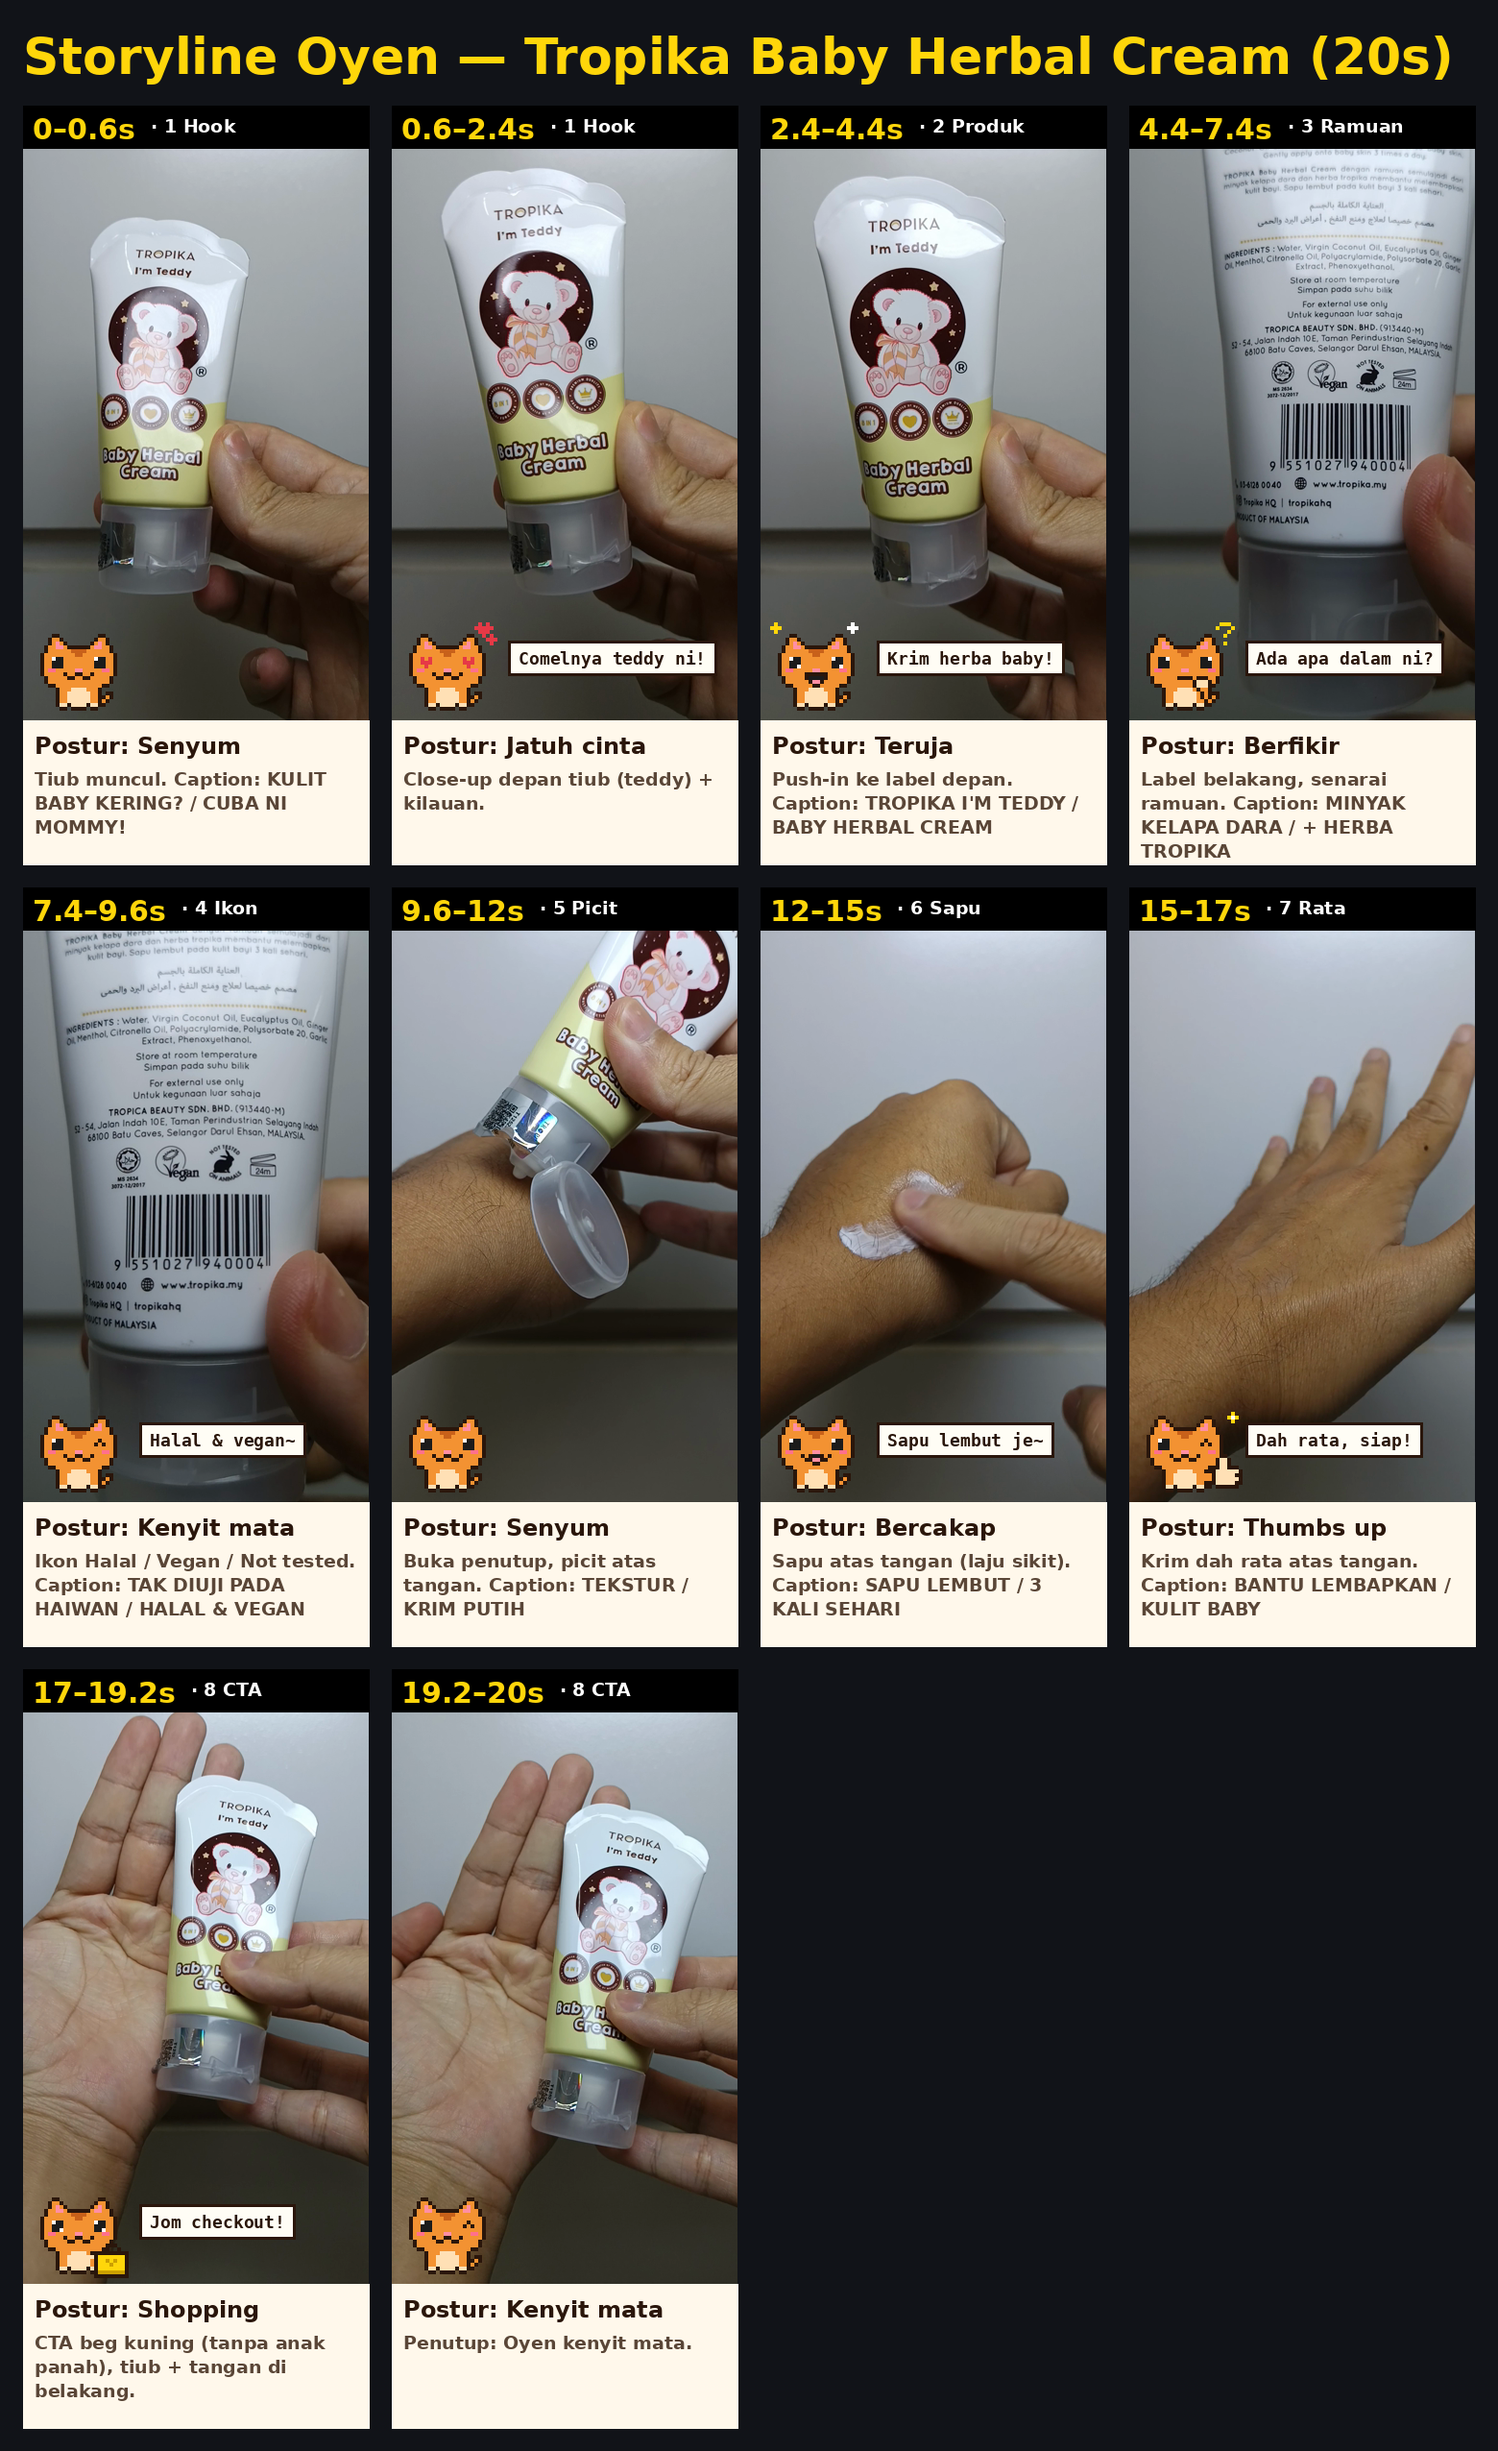
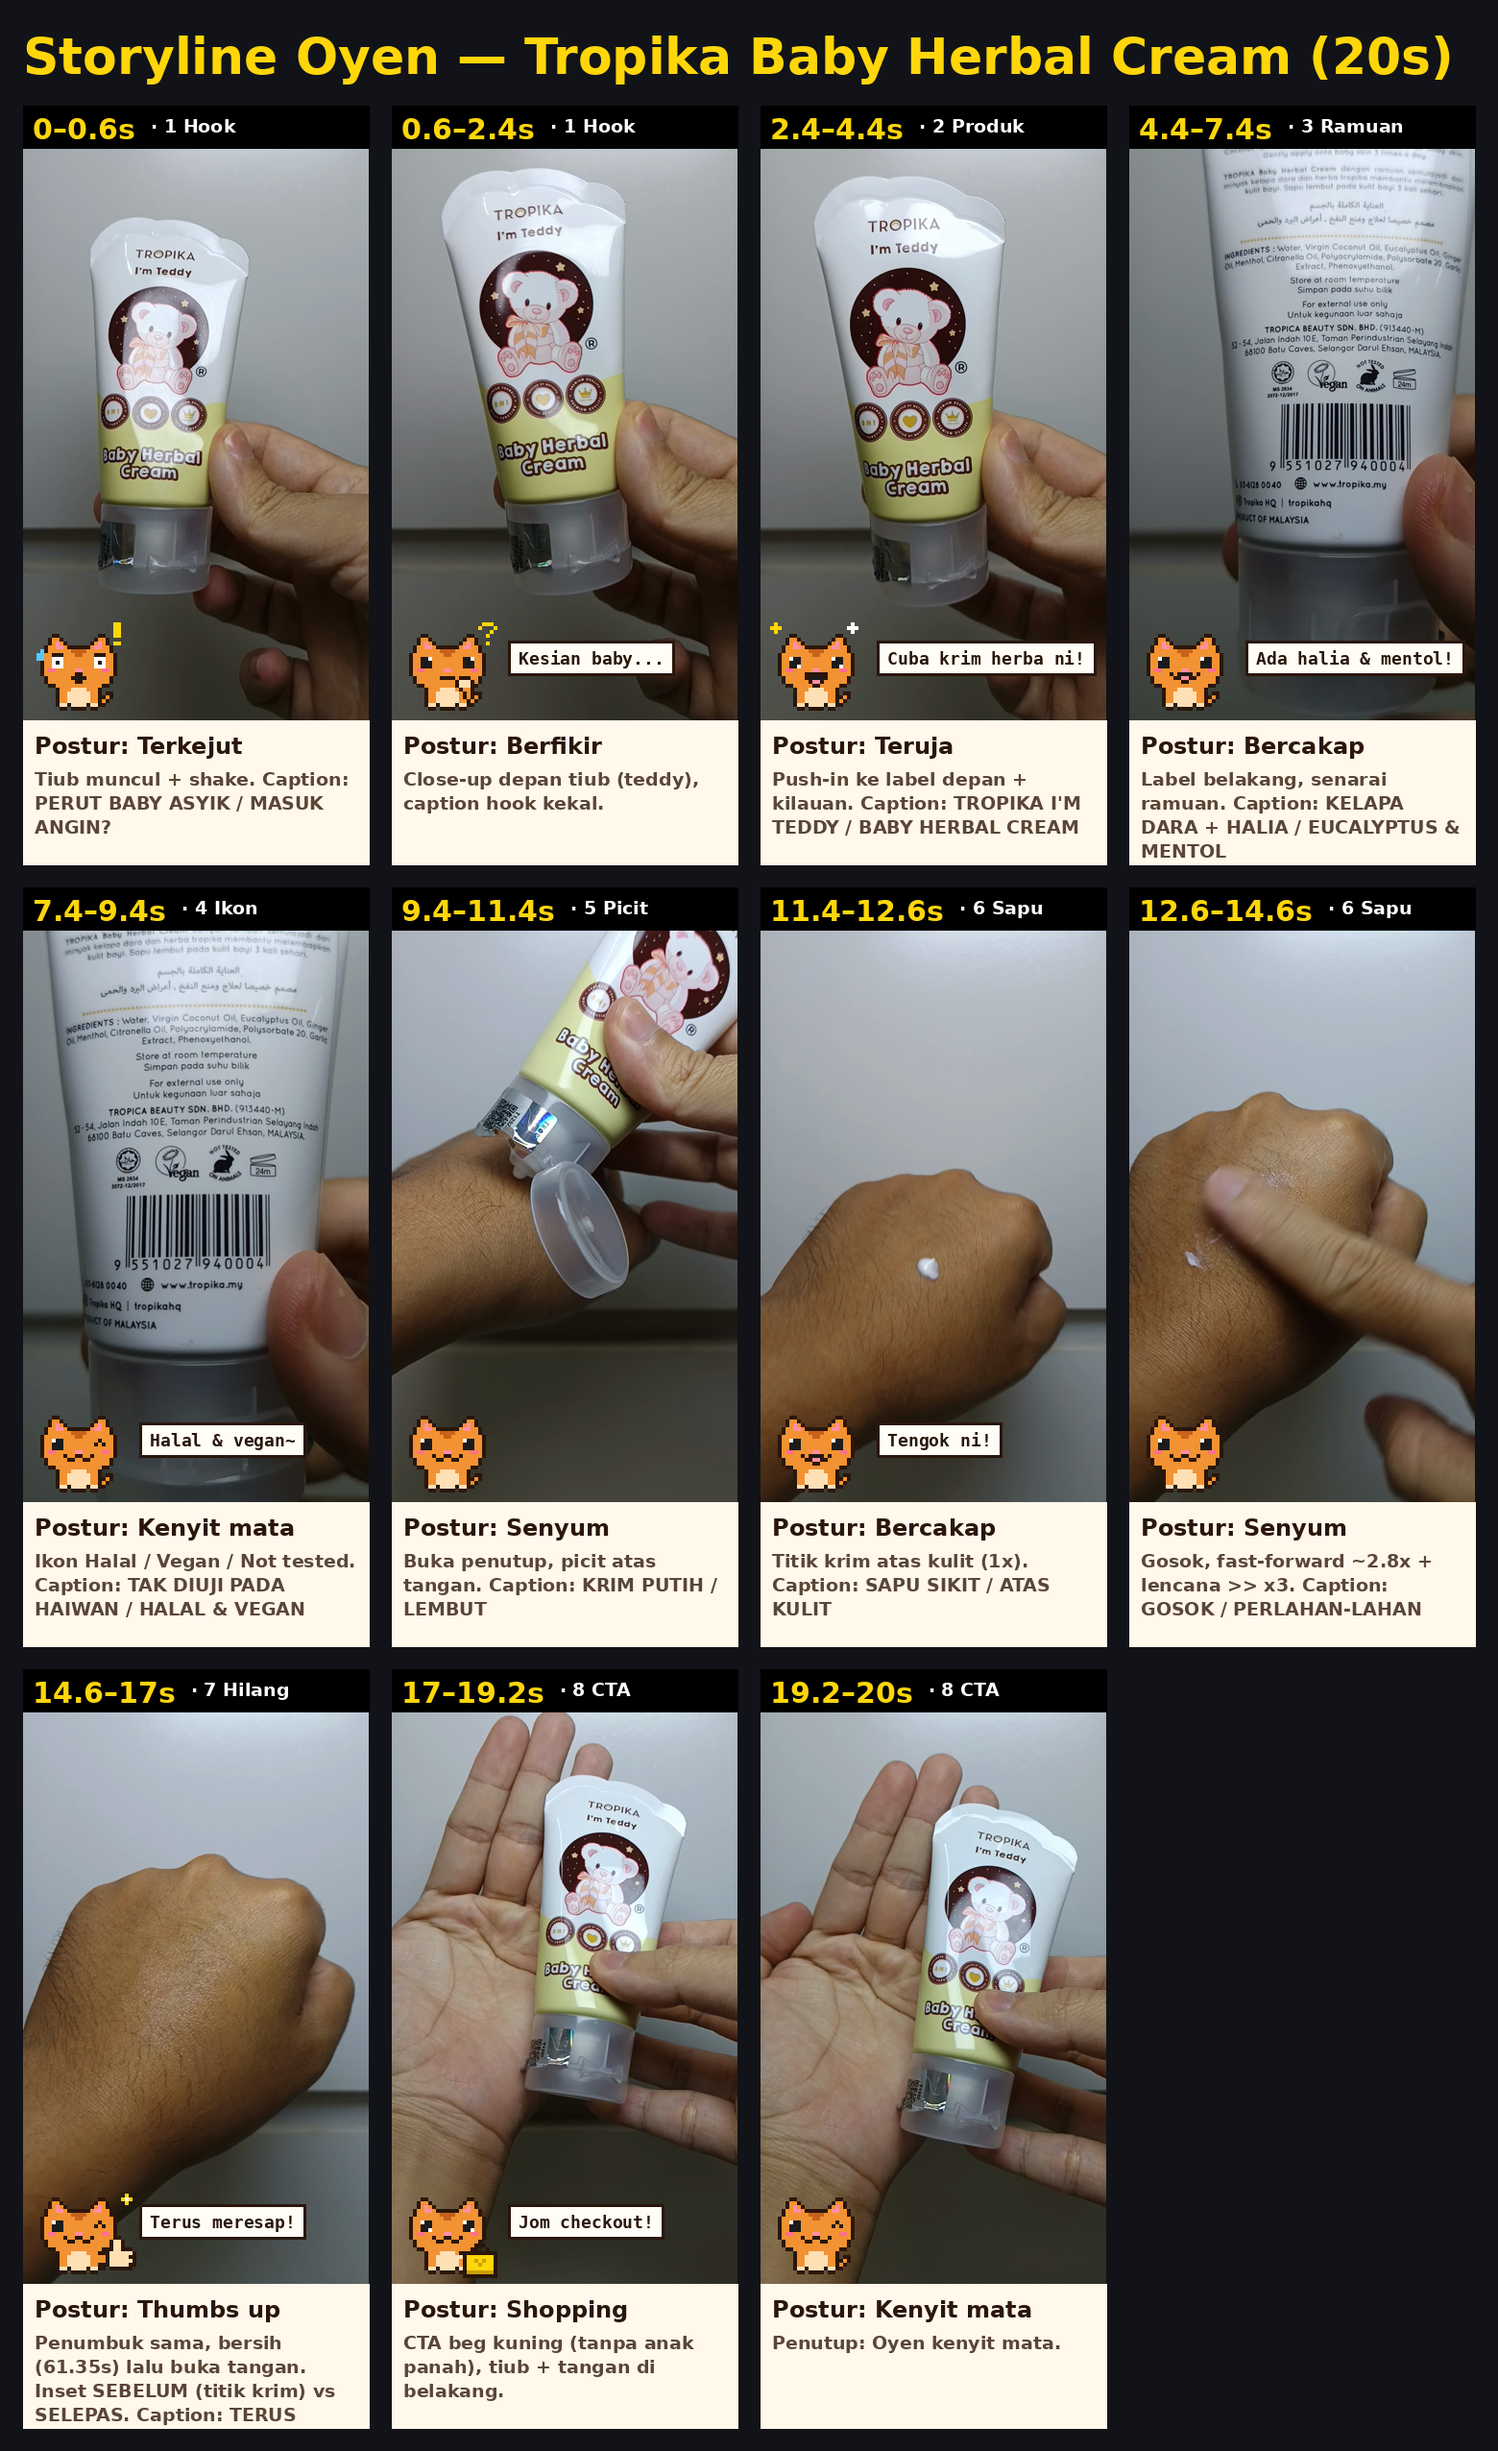
tropika-herbal-cream: wind hook + absorption proof scene in storyline
Claude-Session: https://claude.ai/code/session_01FSFWWRvHpWTAnMm2R9b5o9

diff --git a/videos/tropika-herbal-cream/storyline.py b/videos/tropika-herbal-cream/storyline.py
@@ -2,13 +2,16 @@
 
 Footage: assets/source-portrait.mp4 (85.7s, room noise removed). Usable:
 front of tube 2-8s, back label + icons 17-23s, cap open + squeeze 32-36.5s,
-rub on hand 38-42.5s / 55.5-61s, rubbed in 62-63.5s, tube + open hand 72.5-78s.
+rub #1 38-42.5s, rub #2: dot on skin 54.5-55.5s, rubbing 55.5-61s, clean fist
+61.5s, open hand with no residue 62-63.5s, tube + open hand 72.5-78s.
 The rest is empty wall.
 
-Claims come from the printed label only: VCO + tropical herbs, "membantu
-melembapkan kulit bayi", "sapu lembut 3 kali sehari", Halal (JAKIM), Vegan,
-Not Tested on Animals, Product of Malaysia. The Arabic text's treatment
-claims (bloating, colds, fever) are NOT used.
+Claims come from the printed label: VCO + tropical herbs, ingredients
+(ginger, eucalyptus, menthol, citronella), "membantu melembapkan kulit bayi",
+"sapu lembut 3 kali sehari", Halal (JAKIM), Vegan, Not Tested on Animals.
+The wind hook ("perut baby asyik masuk angin?") is the user's; the label's
+Arabic text names bloating (النفخ). Absorption is shown, not claimed: the
+rub scene runs dot -> rubbing (fast-forward) -> same hand clean.
 
   python3 -m oyen storyboard videos/tropika-herbal-cream
   python3 -m oyen install videos/tropika-herbal-cream
@@ -19,27 +22,29 @@ STORYLINE = Storyline(
     title="Tropika Baby Herbal Cream (20s)",
     source="assets/source-portrait.mp4",
     beats=[
-        Beat(0.0, 0.6, "1 Hook", "Senyum", None,
-             "Tiub muncul. Caption: KULIT BABY KERING? / CUBA NI MOMMY!", src=2.5),
-        Beat(0.6, 2.4, "1 Hook", "Jatuh cinta", "Comelnya teddy ni!",
-             "Close-up depan tiub (teddy) + kilauan.", src=4.0),
-        Beat(2.4, 4.4, "2 Produk", "Teruja", "Krim herba baby!",
-             "Push-in ke label depan. Caption: TROPIKA I'M TEDDY / BABY HERBAL CREAM", src=6.5),
-        Beat(4.4, 7.4, "3 Ramuan", "Berfikir", "Ada apa dalam ni?",
-             "Label belakang, senarai ramuan. Caption: MINYAK KELAPA DARA / + HERBA TROPIKA", src=17.5),
-        Beat(7.4, 9.6, "4 Ikon", "Kenyit mata", "Halal & vegan~",
+        Beat(0.0, 0.6, "1 Hook", "Terkejut", None,
+             "Tiub muncul + shake. Caption: PERUT BABY ASYIK / MASUK ANGIN?", src=2.5),
+        Beat(0.6, 2.4, "1 Hook", "Berfikir", "Kesian baby...",
+             "Close-up depan tiub (teddy), caption hook kekal.", src=4.0),
+        Beat(2.4, 4.4, "2 Produk", "Teruja", "Cuba krim herba ni!",
+             "Push-in ke label depan + kilauan. Caption: TROPIKA I'M TEDDY / BABY HERBAL CREAM", src=6.5),
+        Beat(4.4, 7.4, "3 Ramuan", "Bercakap", "Ada halia & mentol!",
+             "Label belakang, senarai ramuan. Caption: KELAPA DARA + HALIA / EUCALYPTUS & MENTOL", src=17.5),
+        Beat(7.4, 9.4, "4 Ikon", "Kenyit mata", "Halal & vegan~",
              "Ikon Halal / Vegan / Not tested. Caption: TAK DIUJI PADA HAIWAN / HALAL & VEGAN", src=21.0),
-        Beat(9.6, 12.0, "5 Picit", "Senyum", None,
-             "Buka penutup, picit atas tangan. Caption: TEKSTUR / KRIM PUTIH", src=34.5),
-        Beat(12.0, 15.0, "6 Sapu", "Bercakap", "Sapu lembut je~",
-             "Sapu atas tangan (laju sikit). Caption: SAPU LEMBUT / 3 KALI SEHARI", src=40.0),
-        Beat(15.0, 17.0, "7 Rata", "Thumbs up", "Dah rata, siap!",
-             "Krim dah rata atas tangan. Caption: BANTU LEMBAPKAN / KULIT BABY", src=62.5),
+        Beat(9.4, 11.4, "5 Picit", "Senyum", None,
+             "Buka penutup, picit atas tangan. Caption: KRIM PUTIH / LEMBUT", src=34.5),
+        Beat(11.4, 12.6, "6 Sapu", "Bercakap", "Tengok ni!",
+             "Titik krim atas kulit (1x). Caption: SAPU SIKIT / ATAS KULIT", src=54.6),
+        Beat(12.6, 14.6, "6 Sapu", "Senyum", None,
+             "Gosok, fast-forward ~2.8x + lencana >> x3. Caption: GOSOK / PERLAHAN-LAHAN", src=58.0),
+        Beat(14.6, 17.0, "7 Hilang", "Thumbs up", "Terus meresap!",
+             "Penumbuk sama, bersih (61.35s) lalu buka tangan. Inset SEBELUM (titik krim) vs SELEPAS. Caption: TERUS MERESAP / TAK BERBEKAS!", src=61.5),
         Beat(17.0, 19.2, "8 CTA", "Shopping", "Jom checkout!",
              "CTA beg kuning (tanpa anak panah), tiub + tangan di belakang.", src=74.0),
         Beat(19.2, 20.0, "8 CTA", "Kenyit mata", None,
              "Penutup: Oyen kenyit mata.", src=76.0),
     ],
-    blinks=[10.8, 14.4],
-    jumps=[0.6],
+    blinks=[10.4, 13.6],
+    jumps=[2.4, 14.6],
 )

diff --git a/videos/tropika-herbal-cream/storyboard/STORYLINE.md b/videos/tropika-herbal-cream/storyboard/STORYLINE.md
@@ -4,17 +4,18 @@ Generated by `python3 -m oyen storyboard` from `storyline.py`; edit that file, n
 
 | Masa (s) | Babak | Postur | Dialog Oyen | Nota |
 |---|---|---|---|---|
-| 0.00–0.60 | 1 Hook | Senyum | — | Tiub muncul. Caption: KULIT BABY KERING? / CUBA NI MOMMY! |
-| 0.60–2.40 | 1 Hook | Jatuh cinta | Comelnya teddy ni! | Close-up depan tiub (teddy) + kilauan. |
-| 2.40–4.40 | 2 Produk | Teruja | Krim herba baby! | Push-in ke label depan. Caption: TROPIKA I'M TEDDY / BABY HERBAL CREAM |
-| 4.40–7.40 | 3 Ramuan | Berfikir | Ada apa dalam ni? | Label belakang, senarai ramuan. Caption: MINYAK KELAPA DARA / + HERBA TROPIKA |
-| 7.40–9.60 | 4 Ikon | Kenyit mata | Halal & vegan~ | Ikon Halal / Vegan / Not tested. Caption: TAK DIUJI PADA HAIWAN / HALAL & VEGAN |
-| 9.60–12.00 | 5 Picit | Senyum | — | Buka penutup, picit atas tangan. Caption: TEKSTUR / KRIM PUTIH |
-| 12.00–15.00 | 6 Sapu | Bercakap | Sapu lembut je~ | Sapu atas tangan (laju sikit). Caption: SAPU LEMBUT / 3 KALI SEHARI |
-| 15.00–17.00 | 7 Rata | Thumbs up | Dah rata, siap! | Krim dah rata atas tangan. Caption: BANTU LEMBAPKAN / KULIT BABY |
+| 0.00–0.60 | 1 Hook | Terkejut | — | Tiub muncul + shake. Caption: PERUT BABY ASYIK / MASUK ANGIN? |
+| 0.60–2.40 | 1 Hook | Berfikir | Kesian baby... | Close-up depan tiub (teddy), caption hook kekal. |
+| 2.40–4.40 | 2 Produk | Teruja | Cuba krim herba ni! | Push-in ke label depan + kilauan. Caption: TROPIKA I'M TEDDY / BABY HERBAL CREAM |
+| 4.40–7.40 | 3 Ramuan | Bercakap | Ada halia & mentol! | Label belakang, senarai ramuan. Caption: KELAPA DARA + HALIA / EUCALYPTUS & MENTOL |
+| 7.40–9.40 | 4 Ikon | Kenyit mata | Halal & vegan~ | Ikon Halal / Vegan / Not tested. Caption: TAK DIUJI PADA HAIWAN / HALAL & VEGAN |
+| 9.40–11.40 | 5 Picit | Senyum | — | Buka penutup, picit atas tangan. Caption: KRIM PUTIH / LEMBUT |
+| 11.40–12.60 | 6 Sapu | Bercakap | Tengok ni! | Titik krim atas kulit (1x). Caption: SAPU SIKIT / ATAS KULIT |
+| 12.60–14.60 | 6 Sapu | Senyum | — | Gosok, fast-forward ~2.8x + lencana >> x3. Caption: GOSOK / PERLAHAN-LAHAN |
+| 14.60–17.00 | 7 Hilang | Thumbs up | Terus meresap! | Penumbuk sama, bersih (61.35s) lalu buka tangan. Inset SEBELUM (titik krim) vs SELEPAS. Caption: TERUS MERESAP / TAK BERBEKAS! |
 | 17.00–19.20 | 8 CTA | Shopping | Jom checkout! | CTA beg kuning (tanpa anak panah), tiub + tangan di belakang. |
 | 19.20–20.00 | 8 CTA | Kenyit mata | — | Penutup: Oyen kenyit mata. |
 
-Kelip mata: 10.8s, 14.4s · Lompat: 0.6s
+Kelip mata: 10.4s, 13.6s · Lompat: 2.4s, 14.6s
 
-Postur tidak digunakan: Terkejut, Tidur, Layan lagu, Makan
+Postur tidak digunakan: Jatuh cinta, Tidur, Layan lagu, Makan
